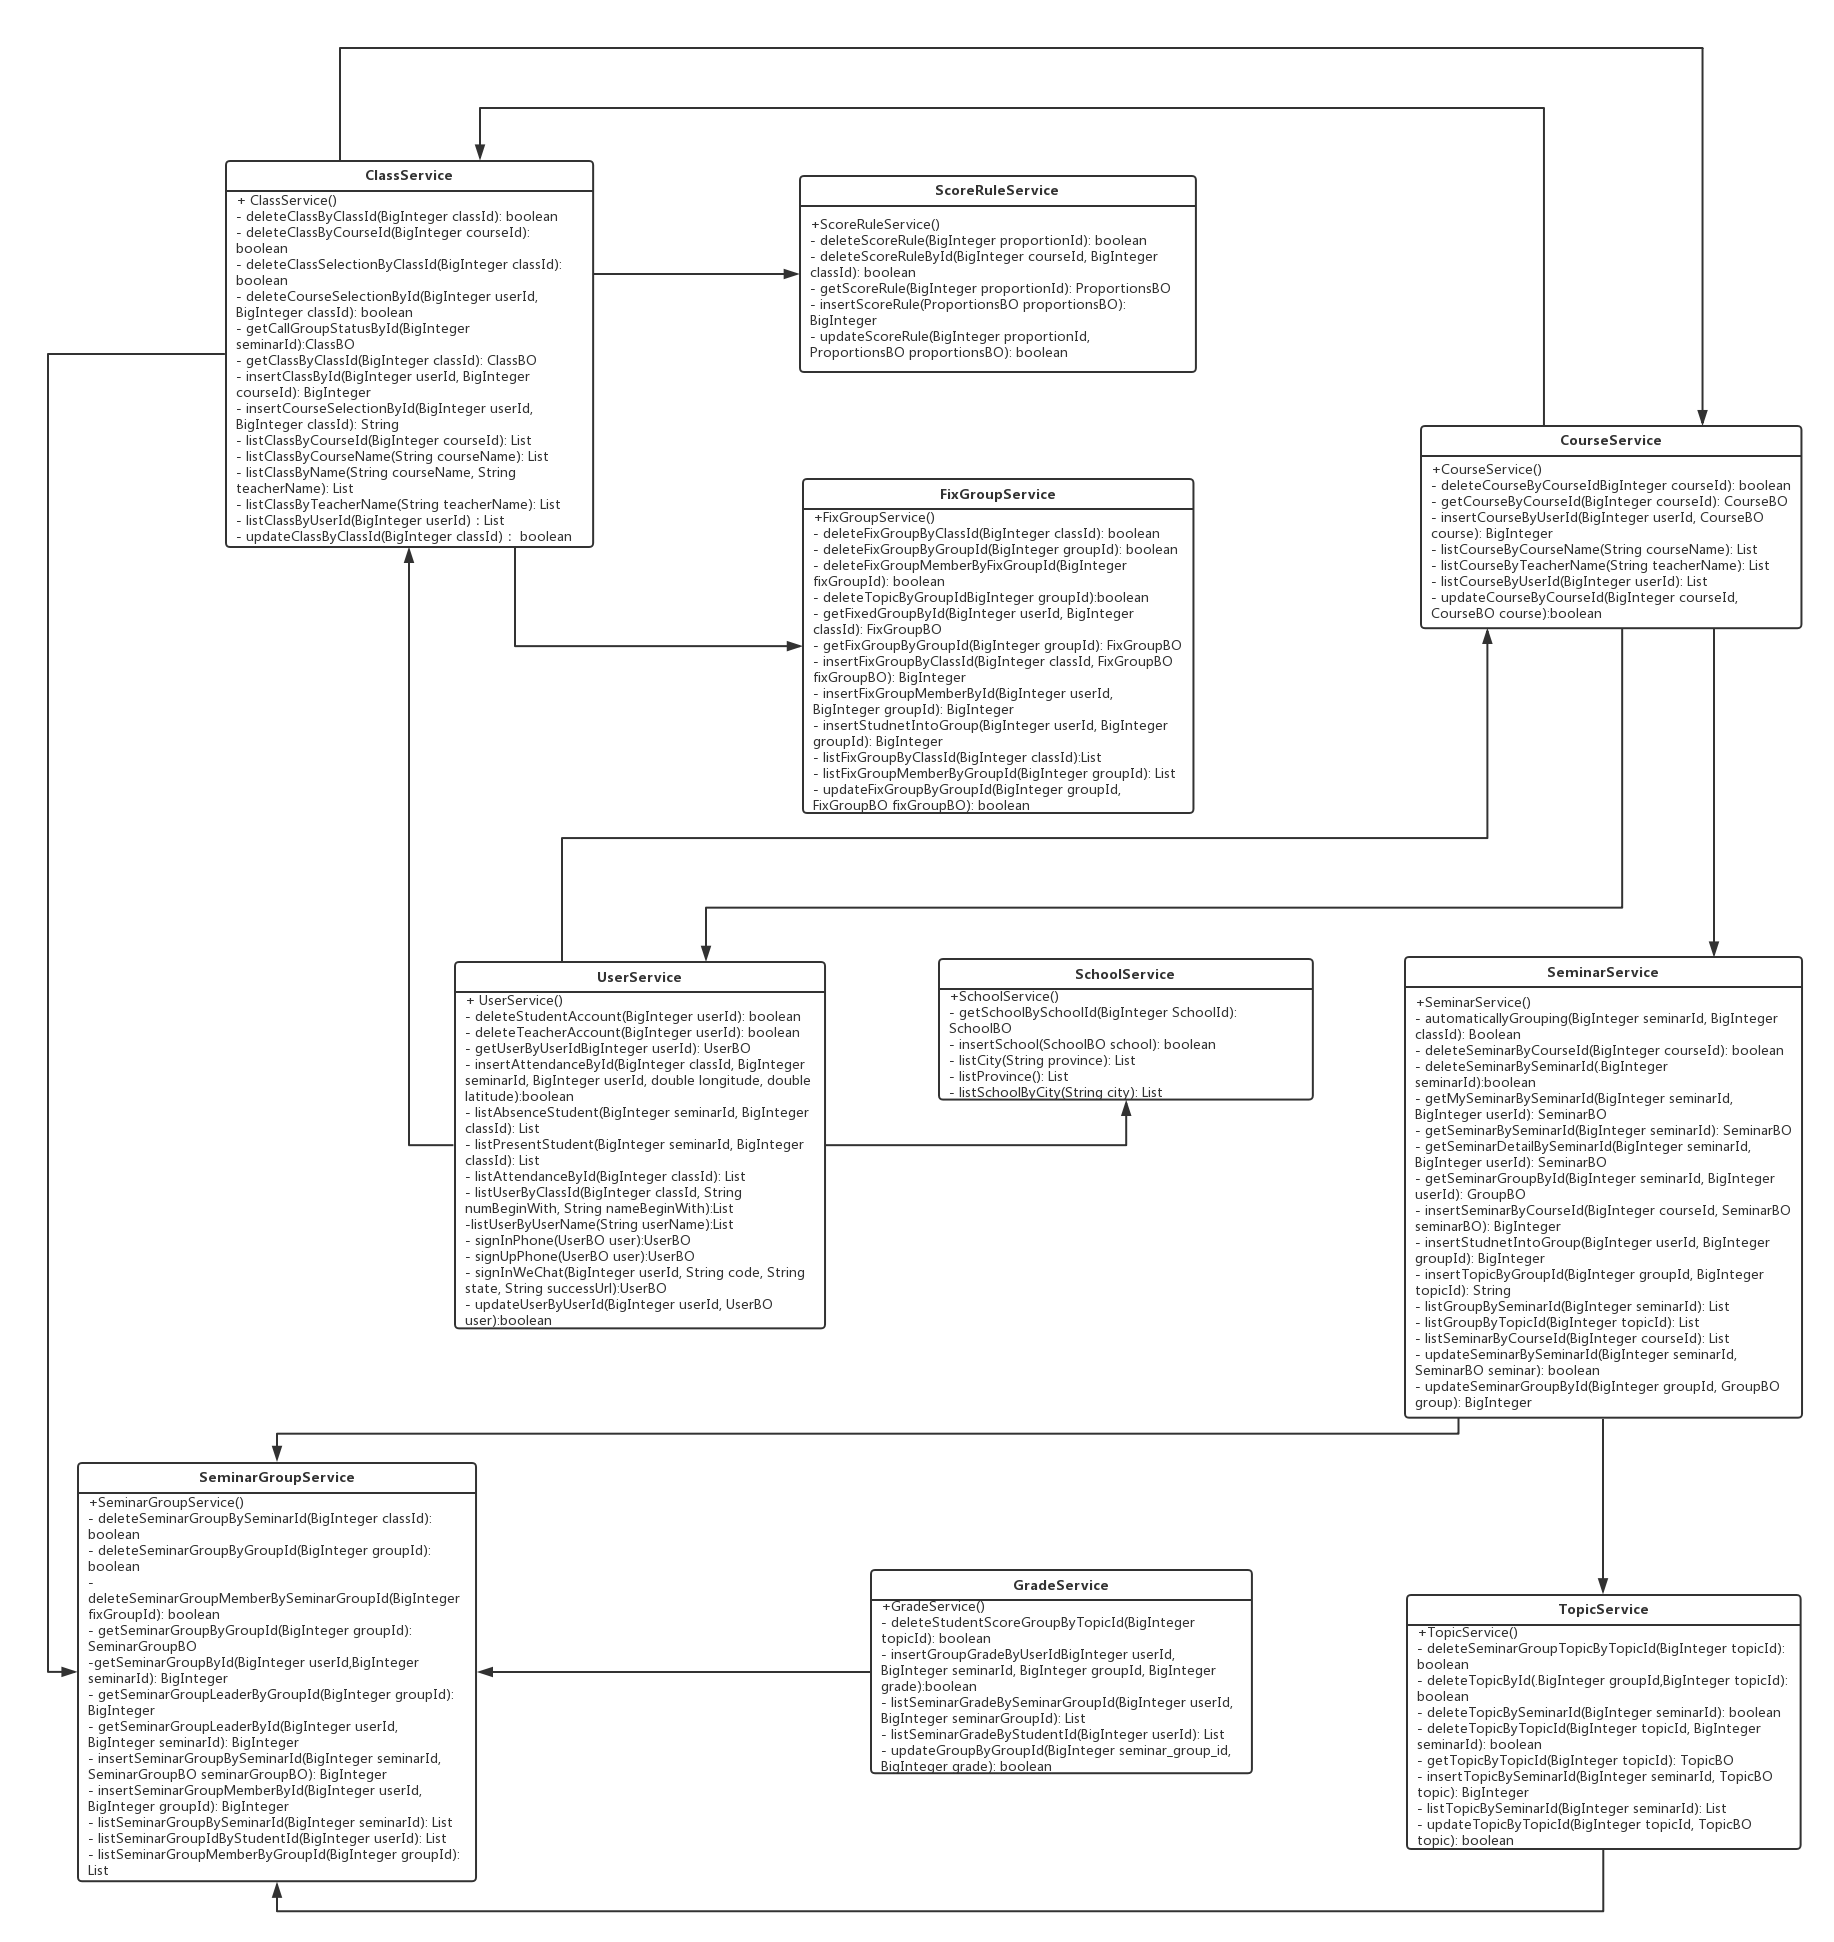
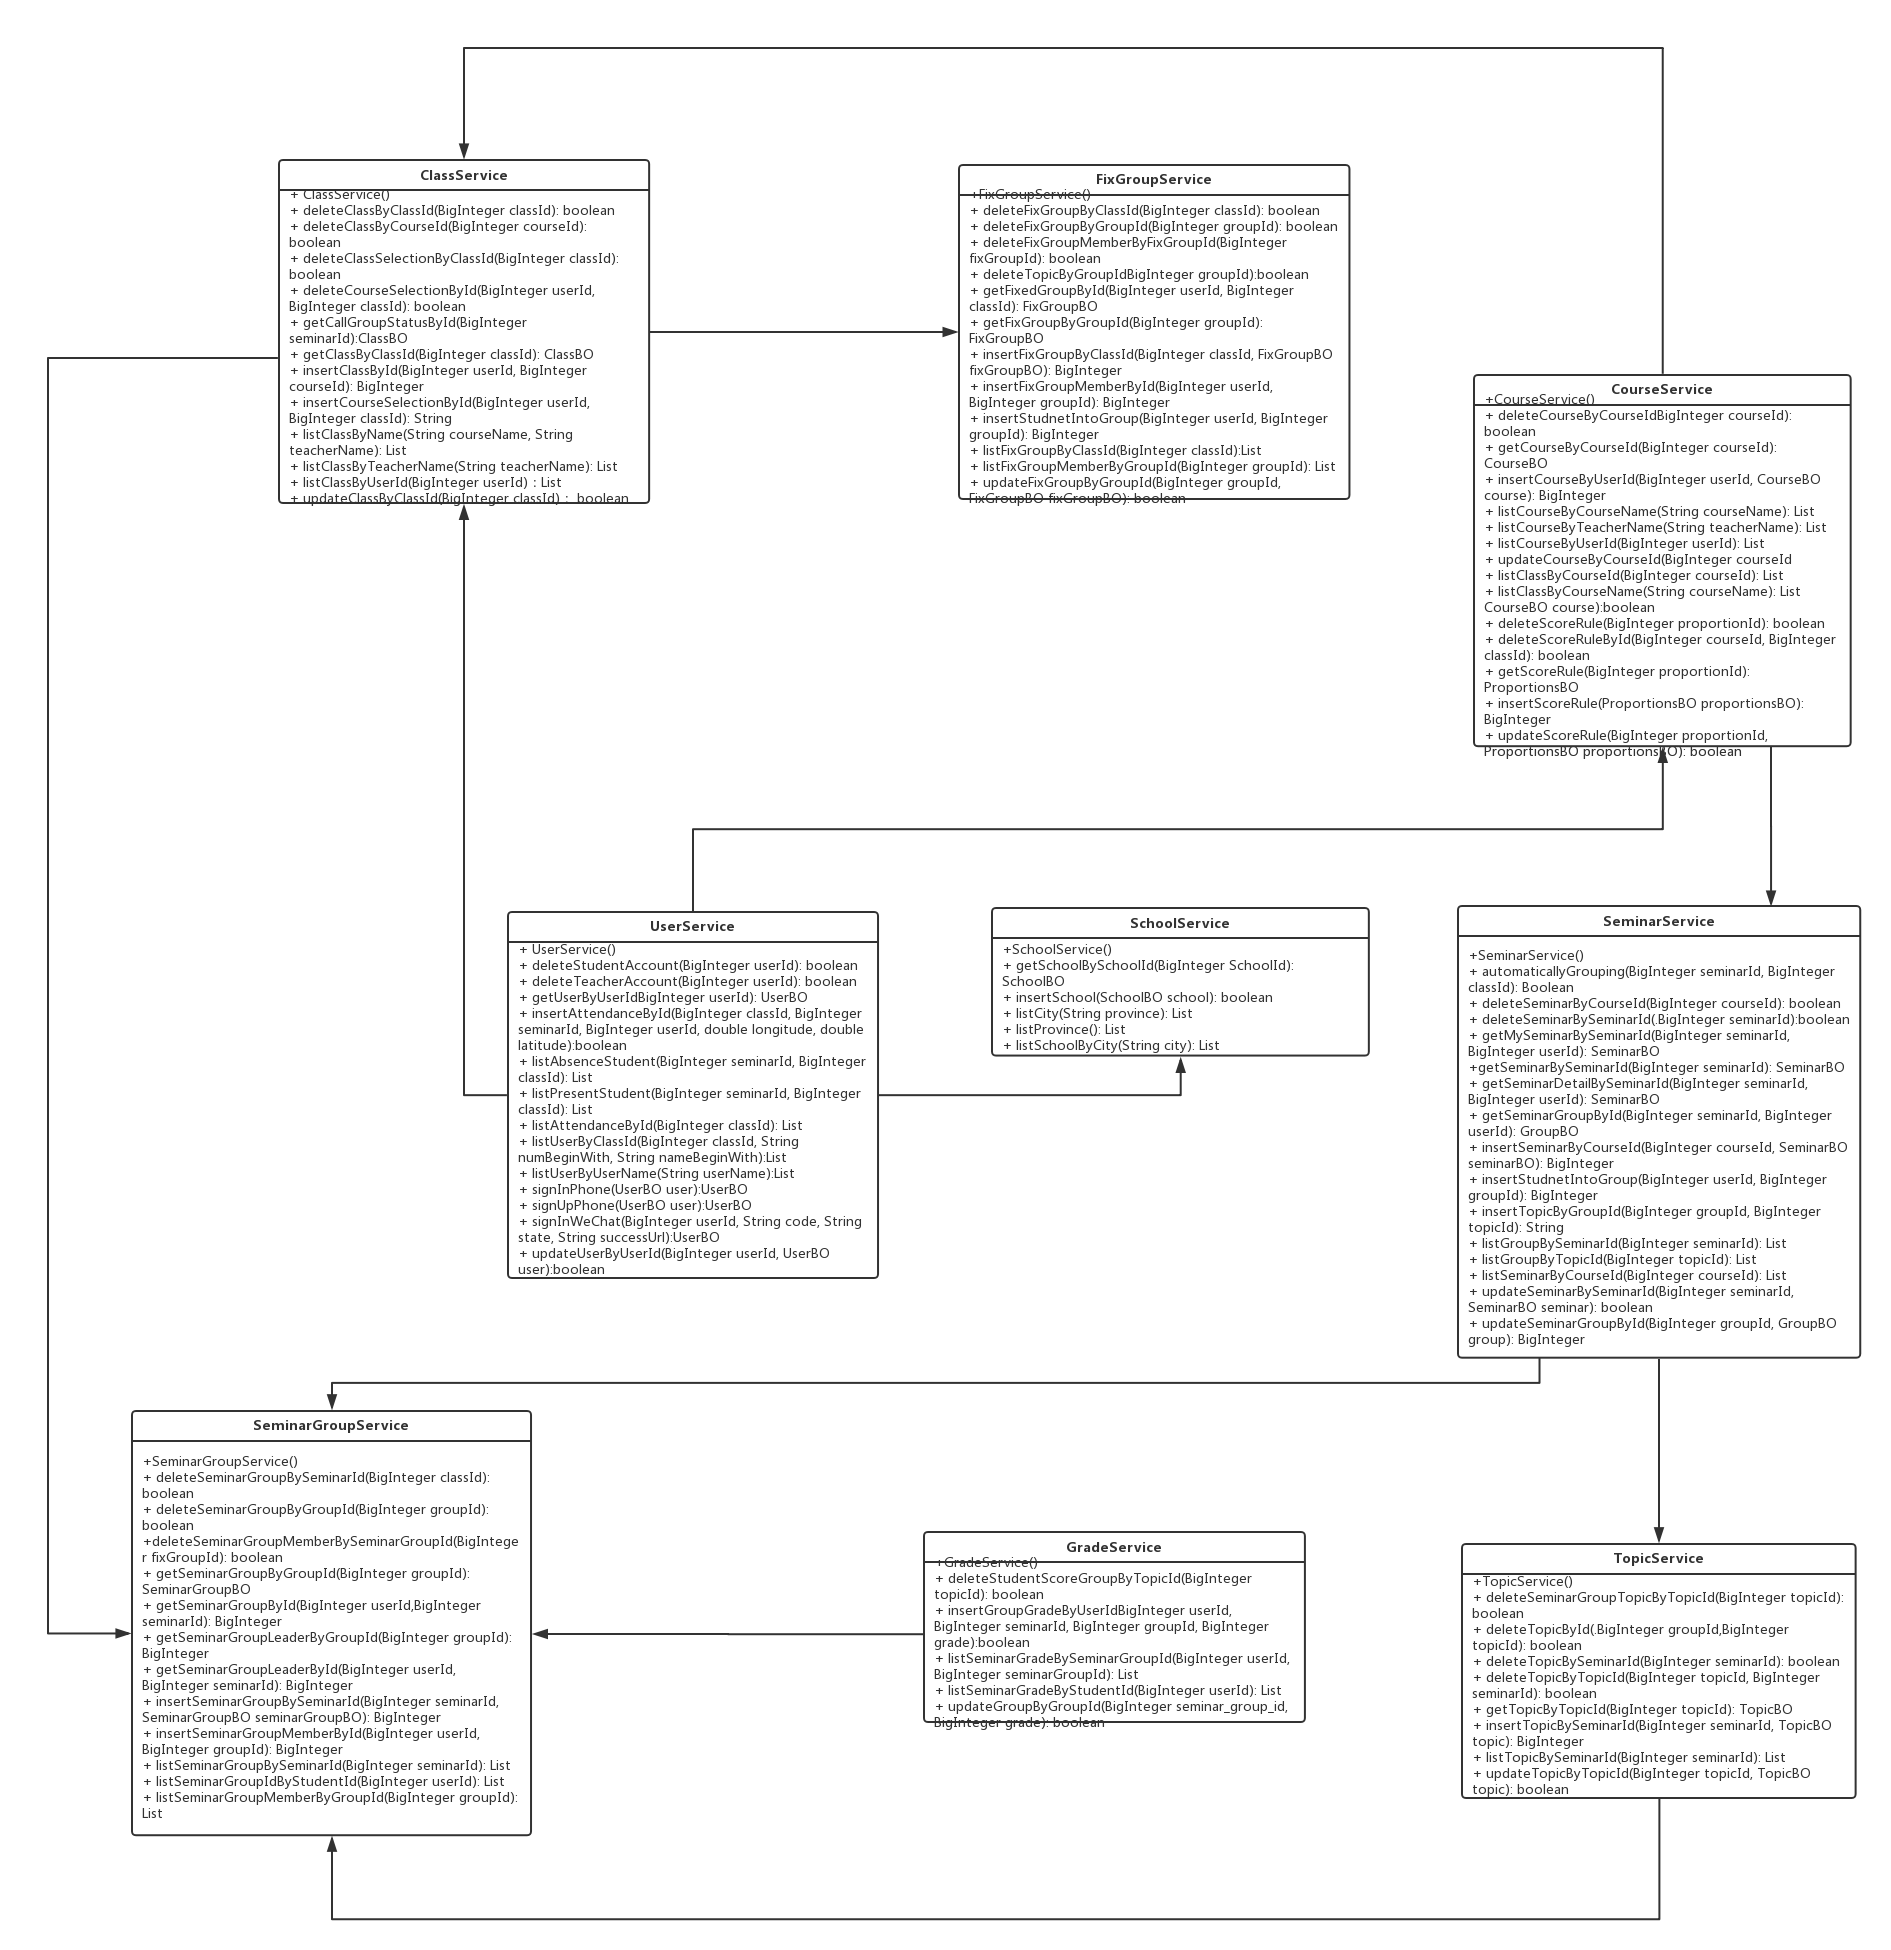
Update classDiagram and Exception
Update class diagram, modify exception ClassNotFoundException to ClassesNotFoundException

diff --git a/src/main/java/xmu/crms/service/UserService.java b/src/main/java/xmu/crms/service/UserService.java
@@ -25,7 +25,7 @@ public interface UserService {
 	 * @param latitude 纬度
 	 * @return true（添加签到信息成功）/false（添加签到信息未成功）
 	 * @exception InfoIllegalException 信息不合法，id格式错误 
-	 * @exception ClassNotFoundException 未找到班级
+	 * @exception ClassesNotFoundException 未找到班级
 	 * @exception SeminarNotFoundException 未找到讨论课
 	 */
 	public boolean insertAttendanceById(BigInteger classId, BigInteger seminarId, BigInteger userId, double longitude, double latitude);
@@ -38,7 +38,7 @@ public interface UserService {
 	 * @param seminarId 讨论课id
 	 * @return list 当堂课签到信息
 	 * @exception InfoIllegalException 信息不合法，id格式错误
-	 * @exception ClassNotFoundException 未找到班级
+	 * @exception ClassesNotFoundException 未找到班级
 	 * @exception SeminarNotFoundException 未找到讨论课
 	 */
 	public List<AttendanceBO> listAttendanceById(BigInteger classId, BigInteger seminarId);
@@ -124,7 +124,7 @@ public interface UserService {
 	 * @param nameBeginWith 姓名开头
 	 * @return list 用户列表
 	 * @exception InfoIllegalException 信息不合法
-	 * @exception ClassNotFoundException 未找到对应班级
+	 * @exception ClassesNotFoundException 未找到对应班级
 	 */	
 	public List listUserByClassId(BigInteger classId,String numBeginWith,String nameBeginWith);
 	

diff --git a/src/main/java/xmu/crms/exception/ClassesNotFoundException.java b/src/main/java/xmu/crms/exception/ClassesNotFoundException.java
@@ -1,0 +1,5 @@
+package xmu.crms.exception;
+
+public class ClassesNotFoundException extends Exception {
+
+}
